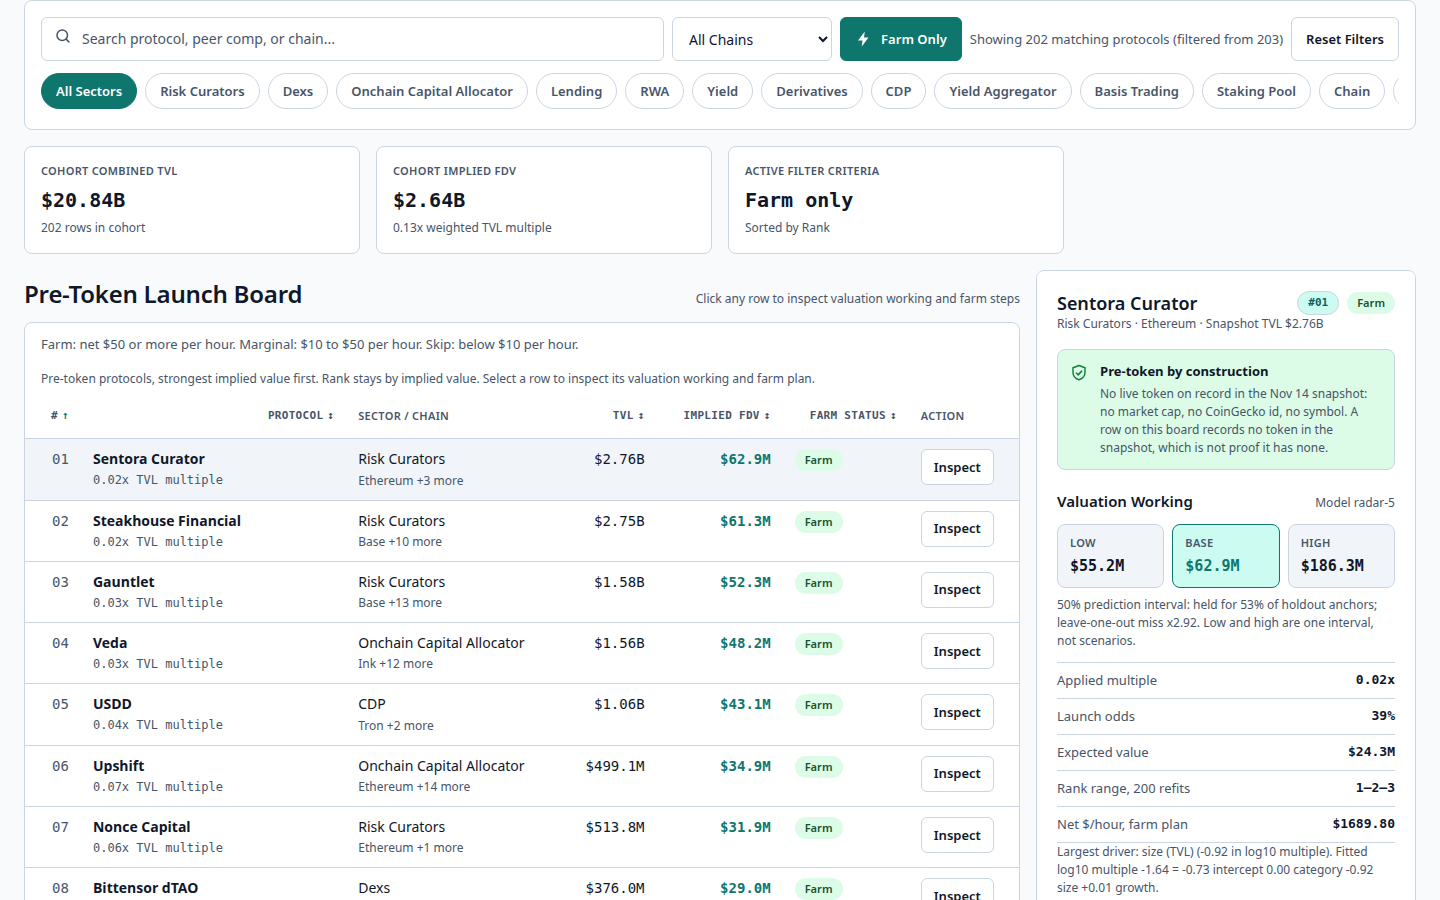
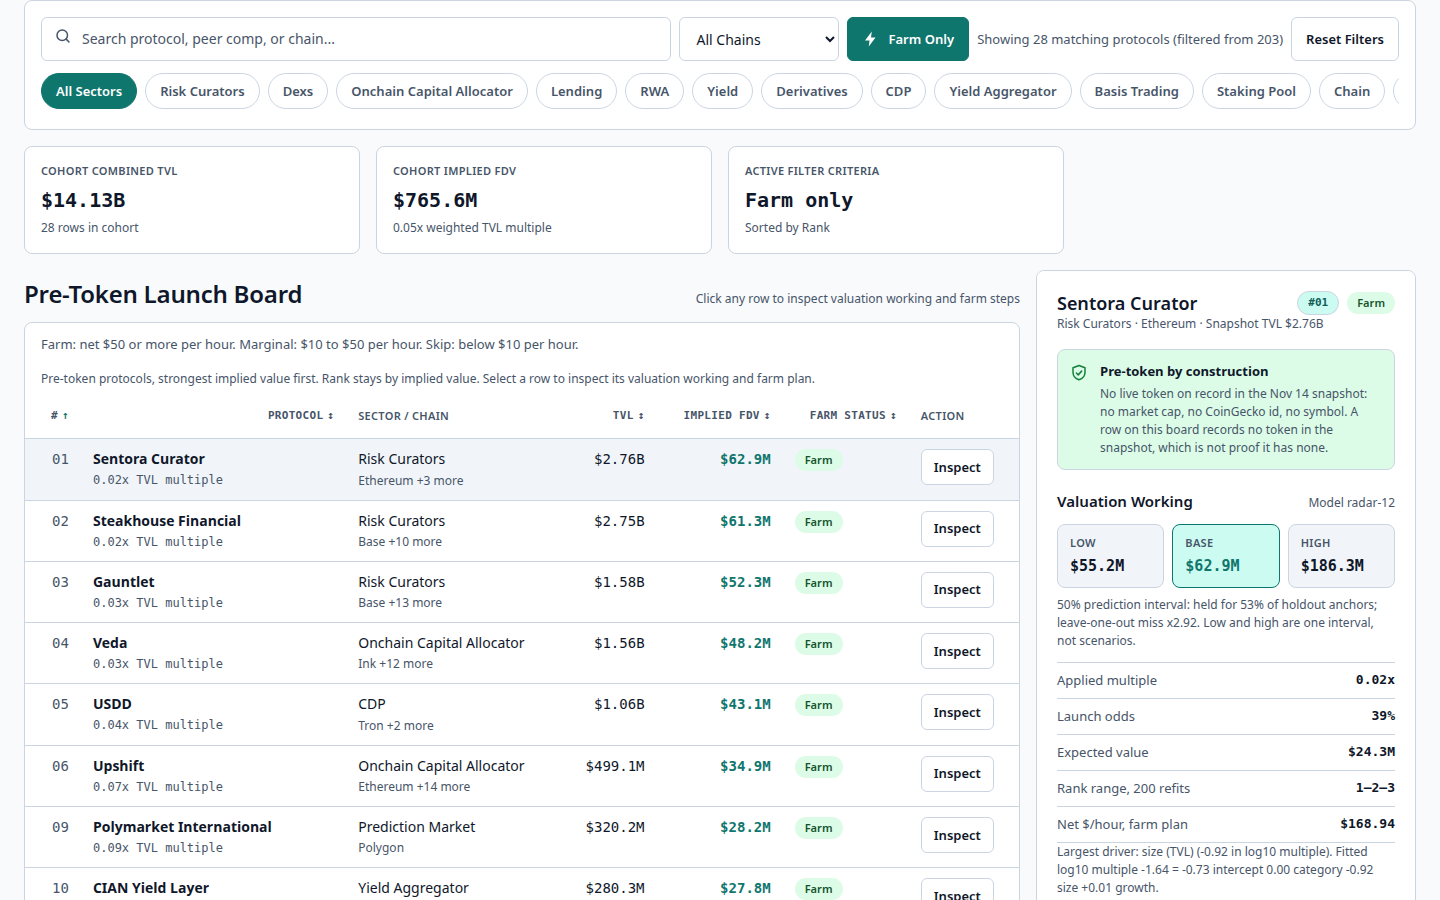
radar-12: verdict calibration — airdrop share 5% to 0.5%
A single farming wallet realistically receives well under 1% of a
launch's fully diluted value. At 5%, a slice of a tens-of-millions
implied value dwarfed a $25 gas bill, so 202 of 203 rows were farm
and the verdict did not discriminate. At 0.5% the verdicts separate:
28 farm / 146 marginal / 29 skip. Ranking stays by implied value and
the fit is unchanged (LOO x2.92, holdout x2.88 / x2.57 10-seed,
walk-forward x2.03) — the fit experiment found no spec (size^2,
size x growth, chains, age, ridge) that clearly beats the baseline
held-out, so the baseline stands. method.md and the dashboard copy
updated; screenshots regenerated.

diff --git a/dashboard/app.js b/dashboard/app.js
@@ -478,7 +478,7 @@
 					var tail = at >= 0 ? s.slice(at + 1) : '';
 					return el('li', null, el('b', { text: action }), el('span', { class: 'cost', text: tail }));
 				})),
-				sub('Net expected value ' + fmtUsd(row.net_ev_usd) + ' over the plan, after ' + fmtUsd(row.plan_gas_usd) + ' gas and ' + fmtUsd(row.plan_lockup_usd) + ' lock-up cost on ' + fmtUsd(row.plan_capital_usd) + ' of capital. The launch breaks even at ' + (row.break_even_odds * 100).toFixed(2) + '% odds. The 5% airdrop share is an assumption. No token is promised, and farming costs real money.'),
+				sub('Net expected value ' + fmtUsd(row.net_ev_usd) + ' over the plan, after ' + fmtUsd(row.plan_gas_usd) + ' gas and ' + fmtUsd(row.plan_lockup_usd) + ' lock-up cost on ' + fmtUsd(row.plan_capital_usd) + ' of capital. The launch breaks even at ' + (row.break_even_odds * 100).toFixed(2) + '% odds. The 0.5% airdrop share is an assumption. No token is promised, and farming costs real money.'),
 				wlBtn
 			)
 		);
@@ -635,7 +635,7 @@
 				}))
 			),
 			h3('Farm verdicts, net of costs'),
-			sub('The payoff if the token launches is a typical 5% airdrop of the implied value, times the launch odds, minus gas, minus the lock-up cost of the capital at 4% a year. Farm at $' + m.farm_per_hour_usd + ' net/hour or more, marginal $' + m.marginal_per_hour_usd + '–$' + m.farm_per_hour_usd + ', skip below $' + m.marginal_per_hour_usd + '. ' + D.kpis.farmable_count + ' rows are farm, ' + D.kpis.marginal_count + ' marginal, ' + D.kpis.skip_count + ' skip. The 5% is an assumption, every row prints its net hourly rate and break-even odds, so the verdict can be re-derived with a different share. The honest limit: a 5% slice of tens of millions dwarfs a $25 gas bill, so nearly every row is farm.'),
+			sub('The payoff if the token launches is a typical 0.5% airdrop of the implied value, times the launch odds, minus gas, minus the lock-up cost of the capital at 4% a year. Farm at $' + m.farm_per_hour_usd + ' net/hour or more, marginal $' + m.marginal_per_hour_usd + '–$' + m.farm_per_hour_usd + ', skip below $' + m.marginal_per_hour_usd + '. ' + D.kpis.farmable_count + ' rows are farm, ' + D.kpis.marginal_count + ' marginal, ' + D.kpis.skip_count + ' skip. The 0.5% is an assumption, every row prints its net hourly rate and break-even odds, so the verdict can be re-derived with a different share. A single wallet realistically receives well under 1% of a launch\u2019s fully diluted value; at the 5% used in earlier rounds, nearly every row was farm.'),
 			h3('Best farms and the $500 portfolio'),
 			sub('The five best farms by net $/hour, and a $' + D.planner.budget_usd + ' portfolio allocated to the best farms in order, each taking its plan\u2019s capital in full. The farms run in parallel, so the portfolio\u2019s rate is the sum of the farms\u2019 net rates: $' + D.planner.total_net_per_hour_usd.toFixed(2) + ' an hour on $' + D.planner.total_capital_usd + ' of capital and $' + D.planner.total_gas_usd + ' of gas.'),
 			el('table', { class: 'mult-table' },

diff --git a/lib/model.ts b/lib/model.ts
@@ -98,7 +98,7 @@ export const MODEL: FitConstants = {
   min_category_peers: 8,
   growth_floor: -60,
   growth_cap: 120,
-  airdrop_share: 0.05,
+  airdrop_share: 0.005,
   farm_per_hour_usd: 50,
   marginal_per_hour_usd: 10,
   t_bill_rate: 0.04,
@@ -106,7 +106,7 @@ export const MODEL: FitConstants = {
   bootstrap_refits: 200,
 };
 
-export const MODEL_VERSION = 'radar-5';
+export const MODEL_VERSION = 'radar-12';
 
 export interface FarmStep {
   text: string;

diff --git a/dashboard/method.md b/dashboard/method.md
@@ -1,4 +1,4 @@
-# Token Radar, radar-9: method
+# Token Radar, radar-12: method
 
 ## The model
 
@@ -50,15 +50,19 @@ have not launched (Polymarket implied #9, expected #3; Lofty #35, #9).
 
 ## Farm plans, net of costs
 
-The payoff if the token launches is a typical **5% airdrop** of the
+The payoff if the token launches is a **0.5% airdrop** of the
 implied value, times the launch odds, minus gas, minus lock-up cost of
 the capital at 4% a year. Farm at $50 net/hour or more, marginal
-$10–$50, skip below $10. The 5% is an assumption; every row prints its
-net hourly rate and break-even odds, so the verdict can be re-derived
-with a different share. The honest limit: a 5% slice of a
-tens-of-millions implied value dwarfs a $25 gas bill, so 202 of 203 rows
-are farm and one is marginal. The **Best farms** list and the **$500
-portfolio**, ranked by net $/hour, are where farms separate.
+$10–$50, skip below $10. The 0.5% is an assumption, and a deliberate
+one: a single farming wallet realistically receives well under 1% of a
+launch's fully diluted value. Earlier rounds used 5%, which made the
+verdict non-discriminating — a 5% slice of a tens-of-millions implied
+value dwarfs a $25 gas bill, so 202 of 203 rows were farm and one was
+marginal. At 0.5% the verdicts separate: 28 farm, 146 marginal, 29
+skip. Every row prints its net hourly rate and break-even odds, so the
+verdict can be re-derived with a different share. The **Best farms**
+list and the **$500 portfolio**, ranked by net $/hour, are where farms
+separate.
 
 ## Rank stability
 
